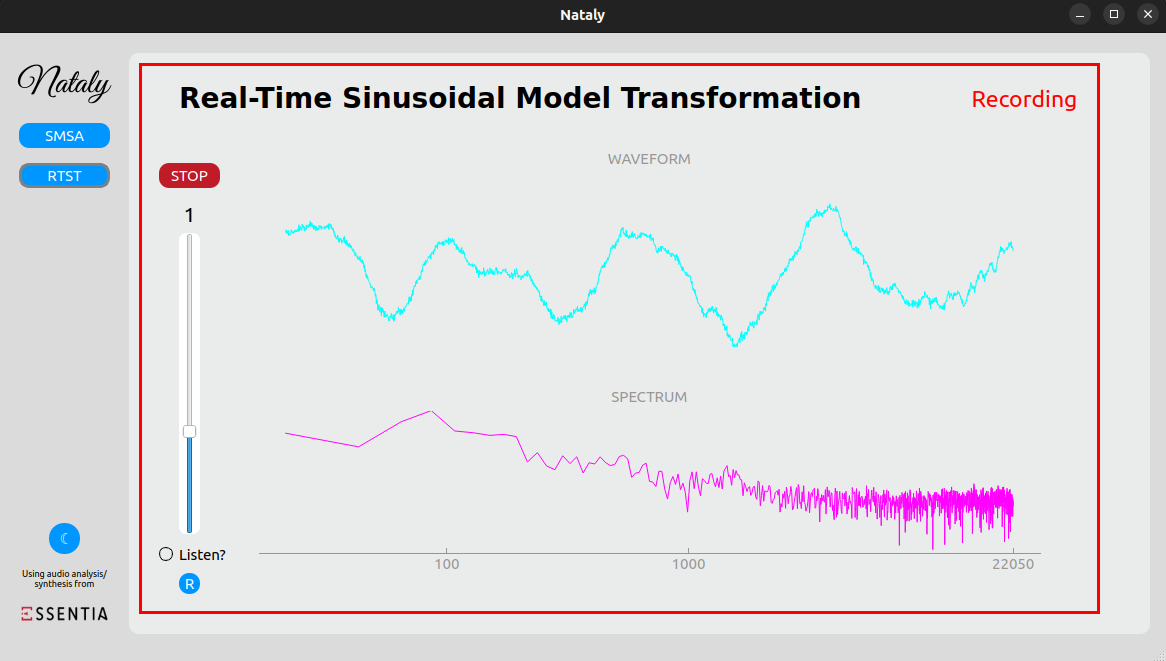
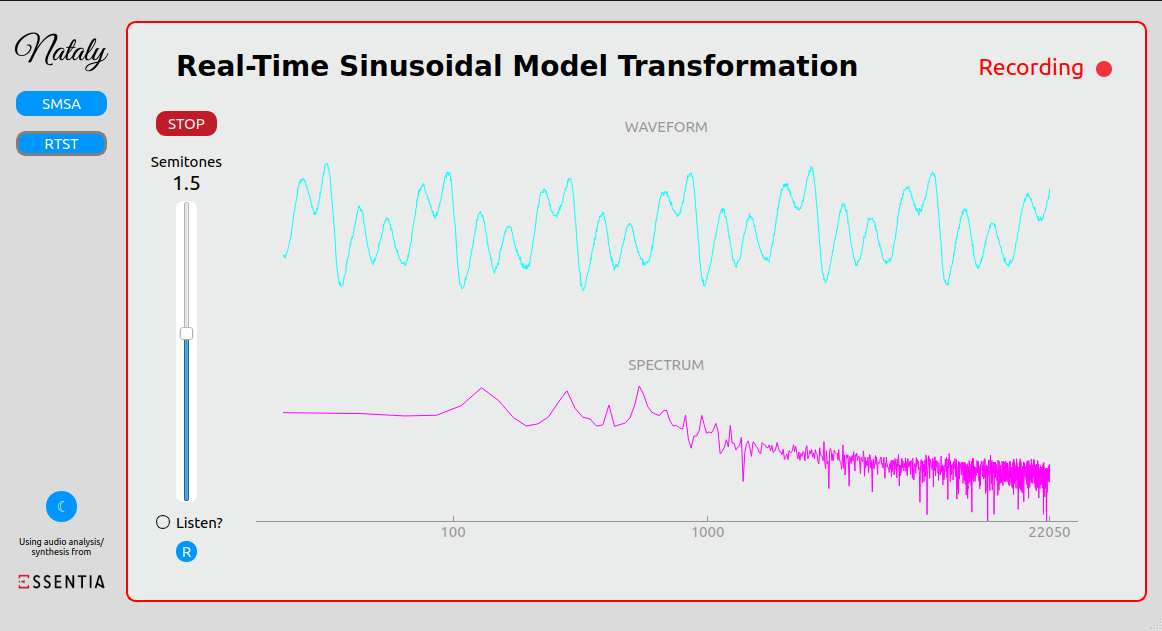
Modified helping window and recording border and sliders to semitones

diff --git a/rt_sine_transformation.py b/rt_sine_transformation.py
@@ -36,7 +36,7 @@ class Rt_sine_transformation(QWidget):
 
         pg.setConfigOptions(antialias=True)
         self.win = pg.GraphicsLayoutWidget(self)
-        self.win.setGeometry(QRect(120, 80, 801, 450))
+        self.win.setGeometry(QRect(120, 80, 841, 450))
         self.win.setBackground('#2e2e2e')
 
         self.record_button = self.findChild(QPushButton, "record_btn")
@@ -47,9 +47,9 @@ class Rt_sine_transformation(QWidget):
 
         self.multiplicator = 1.0
         self.slider.valueChanged.connect(self.slide_it)
-        self.slider.setMinimum(50)
-        self.slider.setMaximum(200)
-        self.slider.setValue(100)
+        self.slider.setMinimum(-1200)
+        self.slider.setMaximum(1200)
+        self.slider.setValue(0)
 
         self.listen_checkbox = self.findChild(QCheckBox, "listen_checkbox")
 
@@ -57,6 +57,7 @@ class Rt_sine_transformation(QWidget):
 
         self.red_border = self.findChild(QLabel, "red_border")
         self.recording_label = self.findChild(QLabel, "recording_label")
+        self.recording_circle = self.findChild(QPushButton, "recording_circle")
 
         self.reset_button = self.findChild(QPushButton, "reset_btn")
         self.reset_button.clicked.connect(lambda: self.reset_slider())
@@ -139,8 +140,11 @@ class Rt_sine_transformation(QWidget):
         self.recording = not self.recording
 
         if self.recording:
-            self.red_border.setStyleSheet("border: 3px solid red;")
+            self.red_border.setStyleSheet("border:2px solid red;"
+                                          "border-radius:10px;")
             self.recording_label.setStyleSheet("color: red;")
+            self.recording_circle.setStyleSheet("background-color: rgb(237, 51, 59);"
+                                                "border-radius:8px;")
             self.record_button.setText("STOP")
 
         if self.counter % 2 == 0:
@@ -148,18 +152,21 @@ class Rt_sine_transformation(QWidget):
             self.red_border.setStyleSheet("border:none;")
             if self.dark_mode:
                 self.recording_label.setStyleSheet("color: #2e2e2e;")
+                self.recording_circle.setStyleSheet("background-color:#2e2e2e")
             else:
                 self.recording_label.setStyleSheet("color: #eaebeb;")
+                self.recording_circle.setStyleSheet("background-color:#eaebeb")
             self.record_button.setText("Record")
             self.saveResult()
 
     def slide_it(self, value):
-        self.multiplicator = float(value) / 100
-        self.label.setText("{0:.4g}".format(self.multiplicator))
+        r = 2 ** (1 / 12)
+        self.multiplicator = r ** (float(value) / 100)
+        self.label.setText("{0:.4g}".format(round(float(value) / 100,1)))
 
     def reset_slider(self):
-        self.slider.setValue(100)
-        self.multiplicator = 1
+        self.slider.setValue(0)
+        self.multiplicator = 1.0
 
     def set_plotdata(self, name, data_x, data_y):
 
@@ -296,7 +303,9 @@ class Rt_sine_transformation(QWidget):
             self.win.setBackground('#2e2e2e')
             if not self.recording:
                 self.recording_label.setStyleSheet('color: #2e2e2e')
+                self.recording_circle.setStyleSheet('background-color:#2e2e2e')
         else:
             self.win.setBackground('#eaebeb')
             if not self.recording:
                 self.recording_label.setStyleSheet('color: #eaebeb')
+                self.recording_circle.setStyleSheet('background-color:#eaebeb')

diff --git a/spec_help_window.py b/spec_help_window.py
@@ -14,36 +14,27 @@ from PyQt5 import QtCore, QtGui, QtWidgets
 class Ui_SpecHelpWindow(object):
     def setupUi(self, SpecHelpWindow):
         SpecHelpWindow.setObjectName("SpecHelpWindow")
-        SpecHelpWindow.resize(717, 558)
+        SpecHelpWindow.resize(814, 688)
+        SpecHelpWindow.setStyleSheet("background-color:white;")
         self.centralwidget = QtWidgets.QWidget(SpecHelpWindow)
         self.centralwidget.setObjectName("centralwidget")
-        self.info_content = QtWidgets.QLabel(self.centralwidget)
-        self.info_content.setGeometry(QtCore.QRect(70, 70, 591, 231))
-        self.info_content.setAutoFillBackground(False)
-        self.info_content.setStyleSheet("color:white;\n"
-"padding:10px;\n"
-"background-color:gray;\n"
-"border-radius:10px;\n"
-"")
-        self.info_content.setTextFormat(QtCore.Qt.AutoText)
-        self.info_content.setScaledContents(False)
-        self.info_content.setAlignment(QtCore.Qt.AlignLeading|QtCore.Qt.AlignLeft|QtCore.Qt.AlignVCenter)
-        self.info_content.setWordWrap(True)
-        self.info_content.setObjectName("info_content")
         self.spec_image = QtWidgets.QLabel(self.centralwidget)
-        self.spec_image.setGeometry(QtCore.QRect(190, 320, 331, 201))
-        self.spec_image.setStyleSheet("border-radius:10px;")
+        self.spec_image.setGeometry(QtCore.QRect(40, 80, 731, 581))
+        self.spec_image.setStyleSheet("border-radius:10px;\n"
+"")
+        self.spec_image.setText("")
+        self.spec_image.setPixmap(QtGui.QPixmap("assets/spec_anal_help.drawio.png"))
         self.spec_image.setScaledContents(True)
         self.spec_image.setObjectName("spec_image")
         self.title_label = QtWidgets.QLabel(self.centralwidget)
-        self.title_label.setGeometry(QtCore.QRect(70, 0, 291, 71))
+        self.title_label.setGeometry(QtCore.QRect(30, 20, 291, 51))
         font = QtGui.QFont()
         font.setPointSize(23)
         self.title_label.setFont(font)
         self.title_label.setObjectName("title_label")
         SpecHelpWindow.setCentralWidget(self.centralwidget)
         self.menubar = QtWidgets.QMenuBar(SpecHelpWindow)
-        self.menubar.setGeometry(QtCore.QRect(0, 0, 717, 22))
+        self.menubar.setGeometry(QtCore.QRect(0, 0, 814, 22))
         self.menubar.setObjectName("menubar")
         SpecHelpWindow.setMenuBar(self.menubar)
         self.statusbar = QtWidgets.QStatusBar(SpecHelpWindow)
@@ -56,8 +47,6 @@ class Ui_SpecHelpWindow(object):
     def retranslateUi(self, SpecHelpWindow):
         _translate = QtCore.QCoreApplication.translate
         SpecHelpWindow.setWindowTitle(_translate("SpecHelpWindow", "Spectrogram Help Window"))
-        self.info_content.setText(_translate("SpecHelpWindow", "Explanation text"))
-        self.spec_image.setText(_translate("SpecHelpWindow", "Image"))
         self.title_label.setText(_translate("SpecHelpWindow", "CheatSheet Window"))
 
 

diff --git a/sinusoidal_spec_anal.py b/sinusoidal_spec_anal.py
@@ -174,14 +174,20 @@ class Sinusoidal_Spec_Anal(QWidget):
         self.multiplicator = 1.0
 
         self.slider.valueChanged.connect(self.slide_it)
-        self.slider.setMinimum(50)
-        self.slider.setMaximum(200)
-        self.slider.setValue(100)
+        self.slider.setMinimum(-1200)
+        self.slider.setMaximum(1200)
+        self.slider.setValue(0)
         self.slider.sliderReleased.connect(lambda: self.synthesis())
 
     def slide_it(self, value):
-        self.multiplicator = float(value) / 100
-        self.slider_label.setText("{0:.4g}".format(self.multiplicator))
+        r = 2 ** (1 / 12)
+        self.multiplicator = r ** (float(value) / 100)
+        self.slider_label.setText("{0:.4g}".format(round(float(value) / 100, 1)))
+
+    def reset_slider(self):
+        self.slider.setValue(0)
+        self.multiplicator = 1.0
+        self.synthesis()
 
     def applied_changes(self):
         self.changed_inputs_label.setStyleSheet('')
@@ -434,11 +440,6 @@ class Sinusoidal_Spec_Anal(QWidget):
         dialog.setWindowTitle('File saved!')
         dialog.setStyleSheet('color:white;')
         dialog.exec_()
-
-    def reset_slider(self):
-        self.slider.setValue(100)
-        self.multiplicator = 1
-        self.synthesis()
 
     def change_theme(self):
         if self.dark_mode:

diff --git a/main.py b/main.py
@@ -5,6 +5,7 @@ from PyQt5.QtGui import QPixmap
 from sinusoidal_spec_anal import Sinusoidal_Spec_Anal
 from rt_sine_transformation import Rt_sine_transformation
 
+
 class MainWindow(QMainWindow):
     def __init__(self):
         super().__init__()

diff --git a/README.md b/README.md
@@ -43,3 +43,7 @@ Per executar el projecte jo és recomanable utilitzar un interpreter de Python v
 
 | Light Themed Real-Time Sinusoidal Transformations
 
+![](ubuntu_spec_analyzer_help_window.png)
+
+| Sinusoidal Spectrogram Analyzer Helping Window
+
